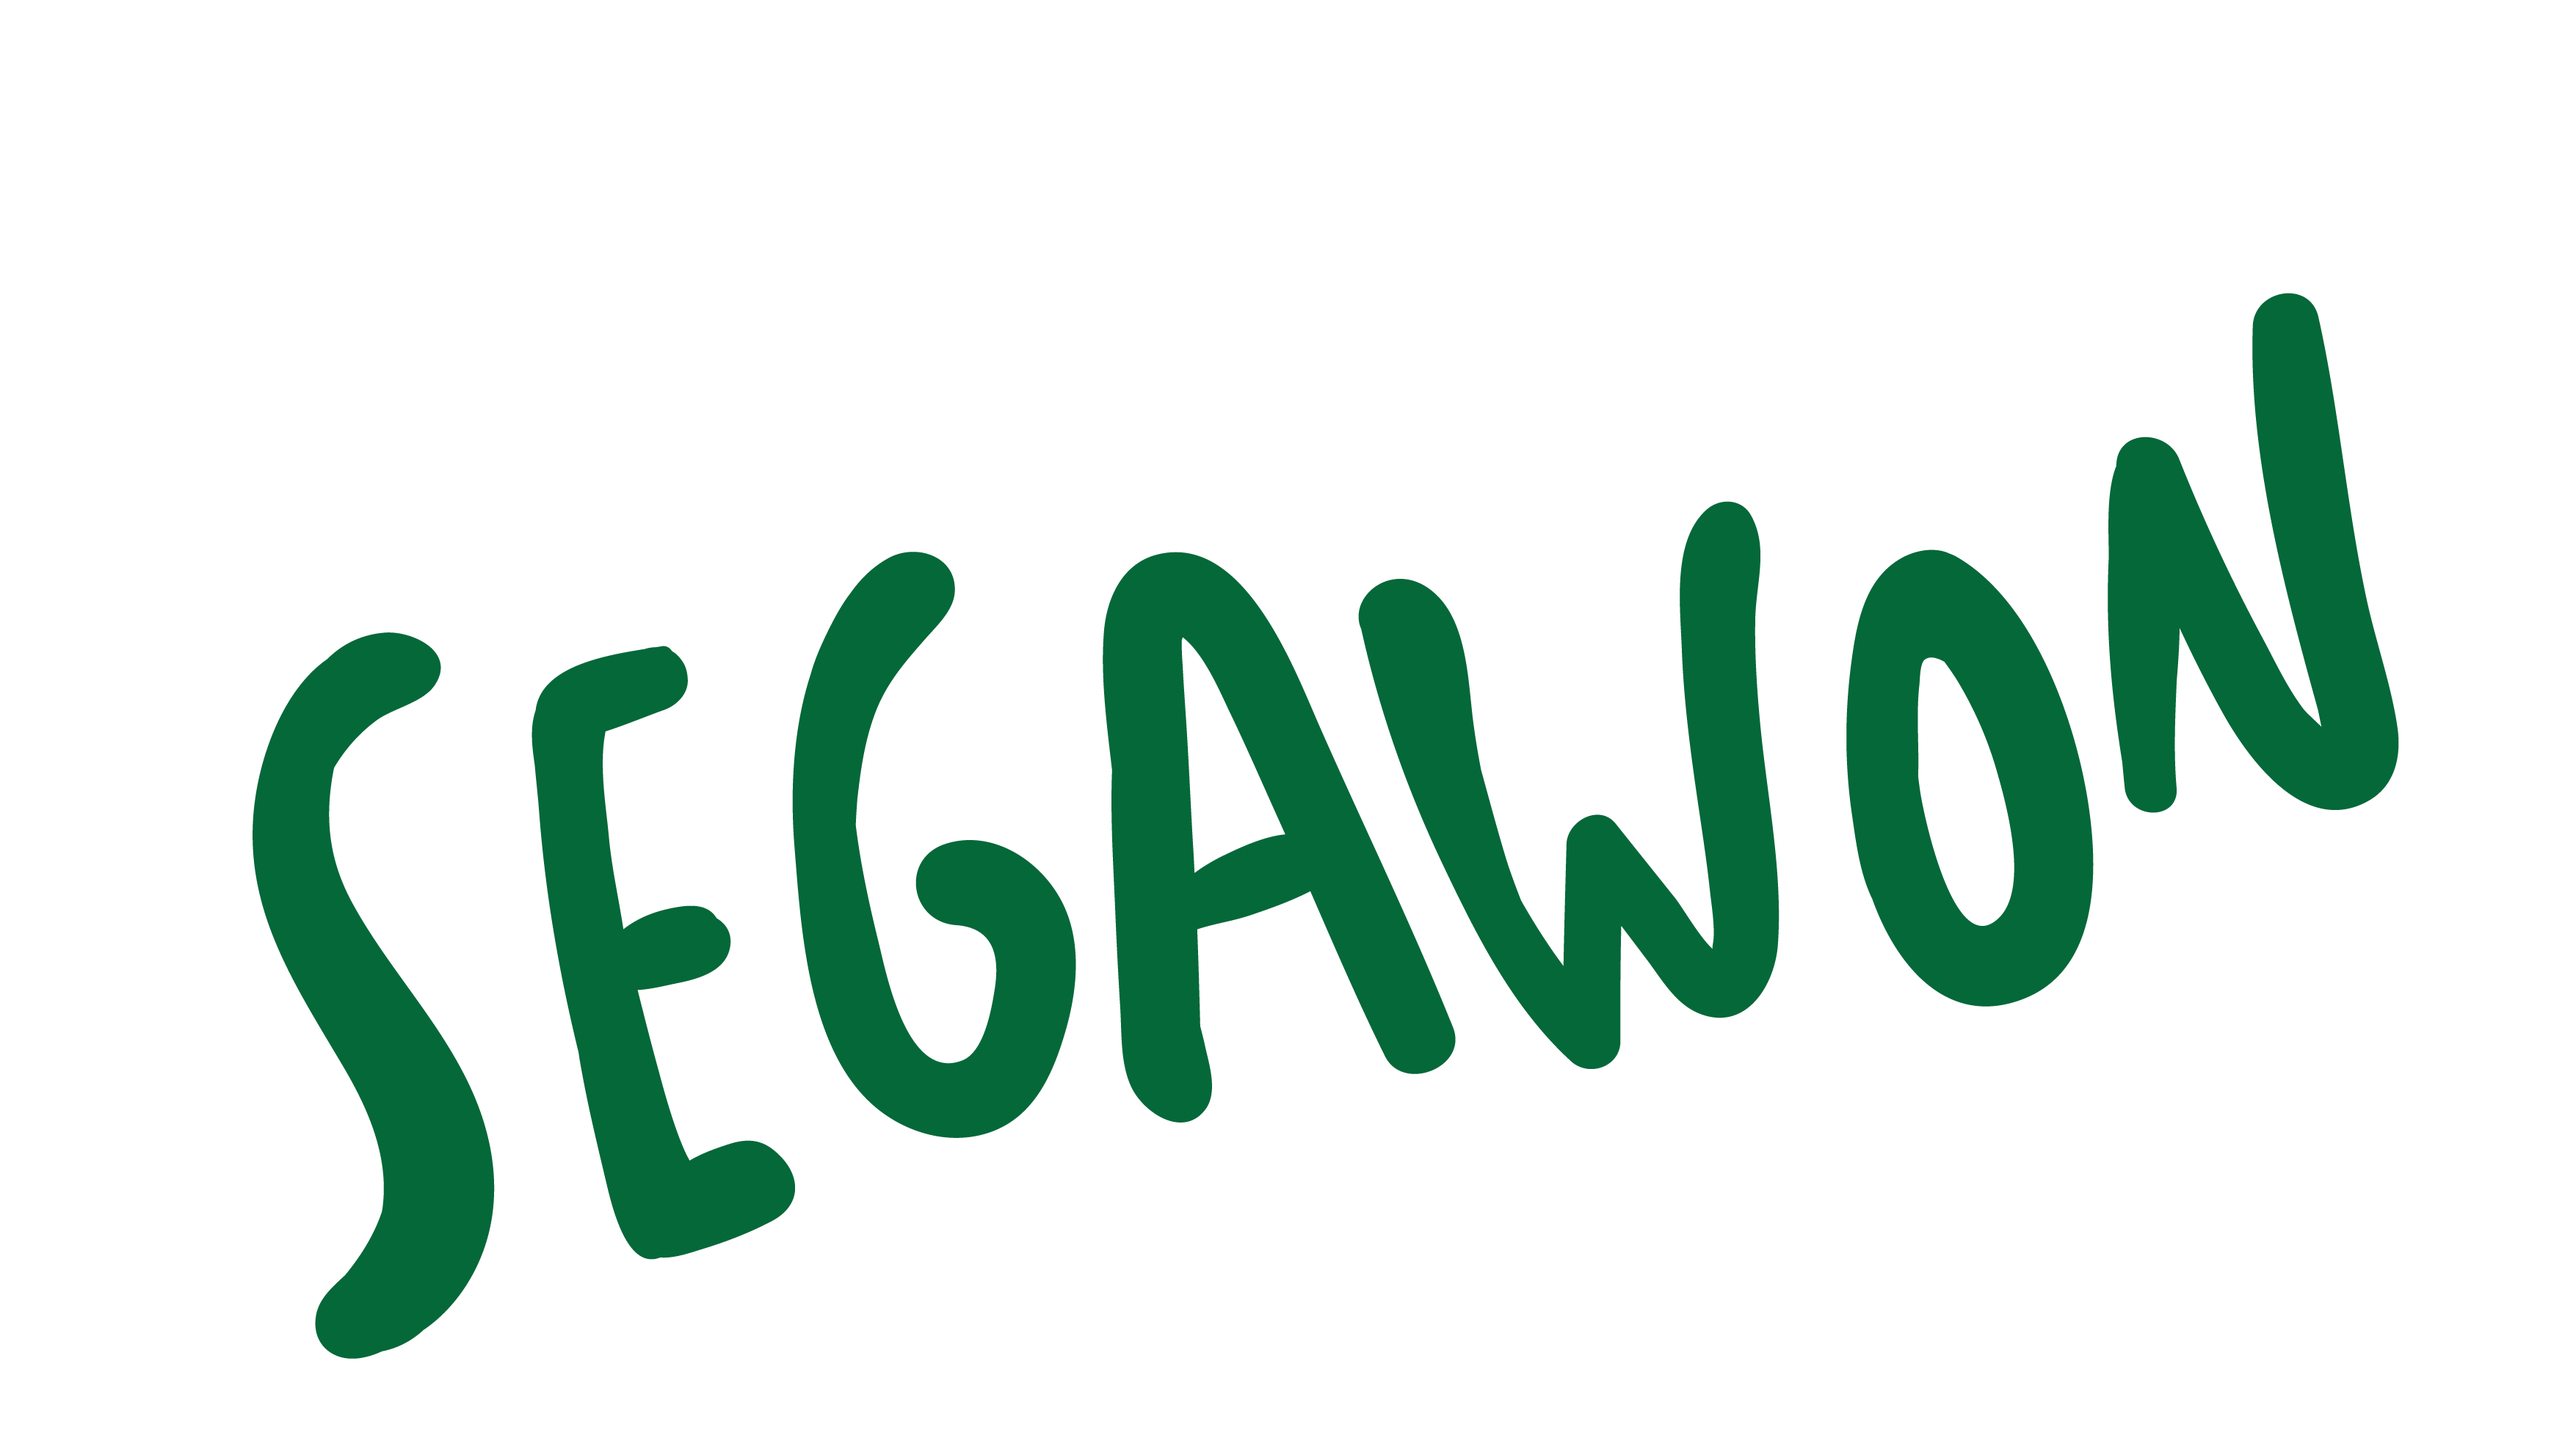
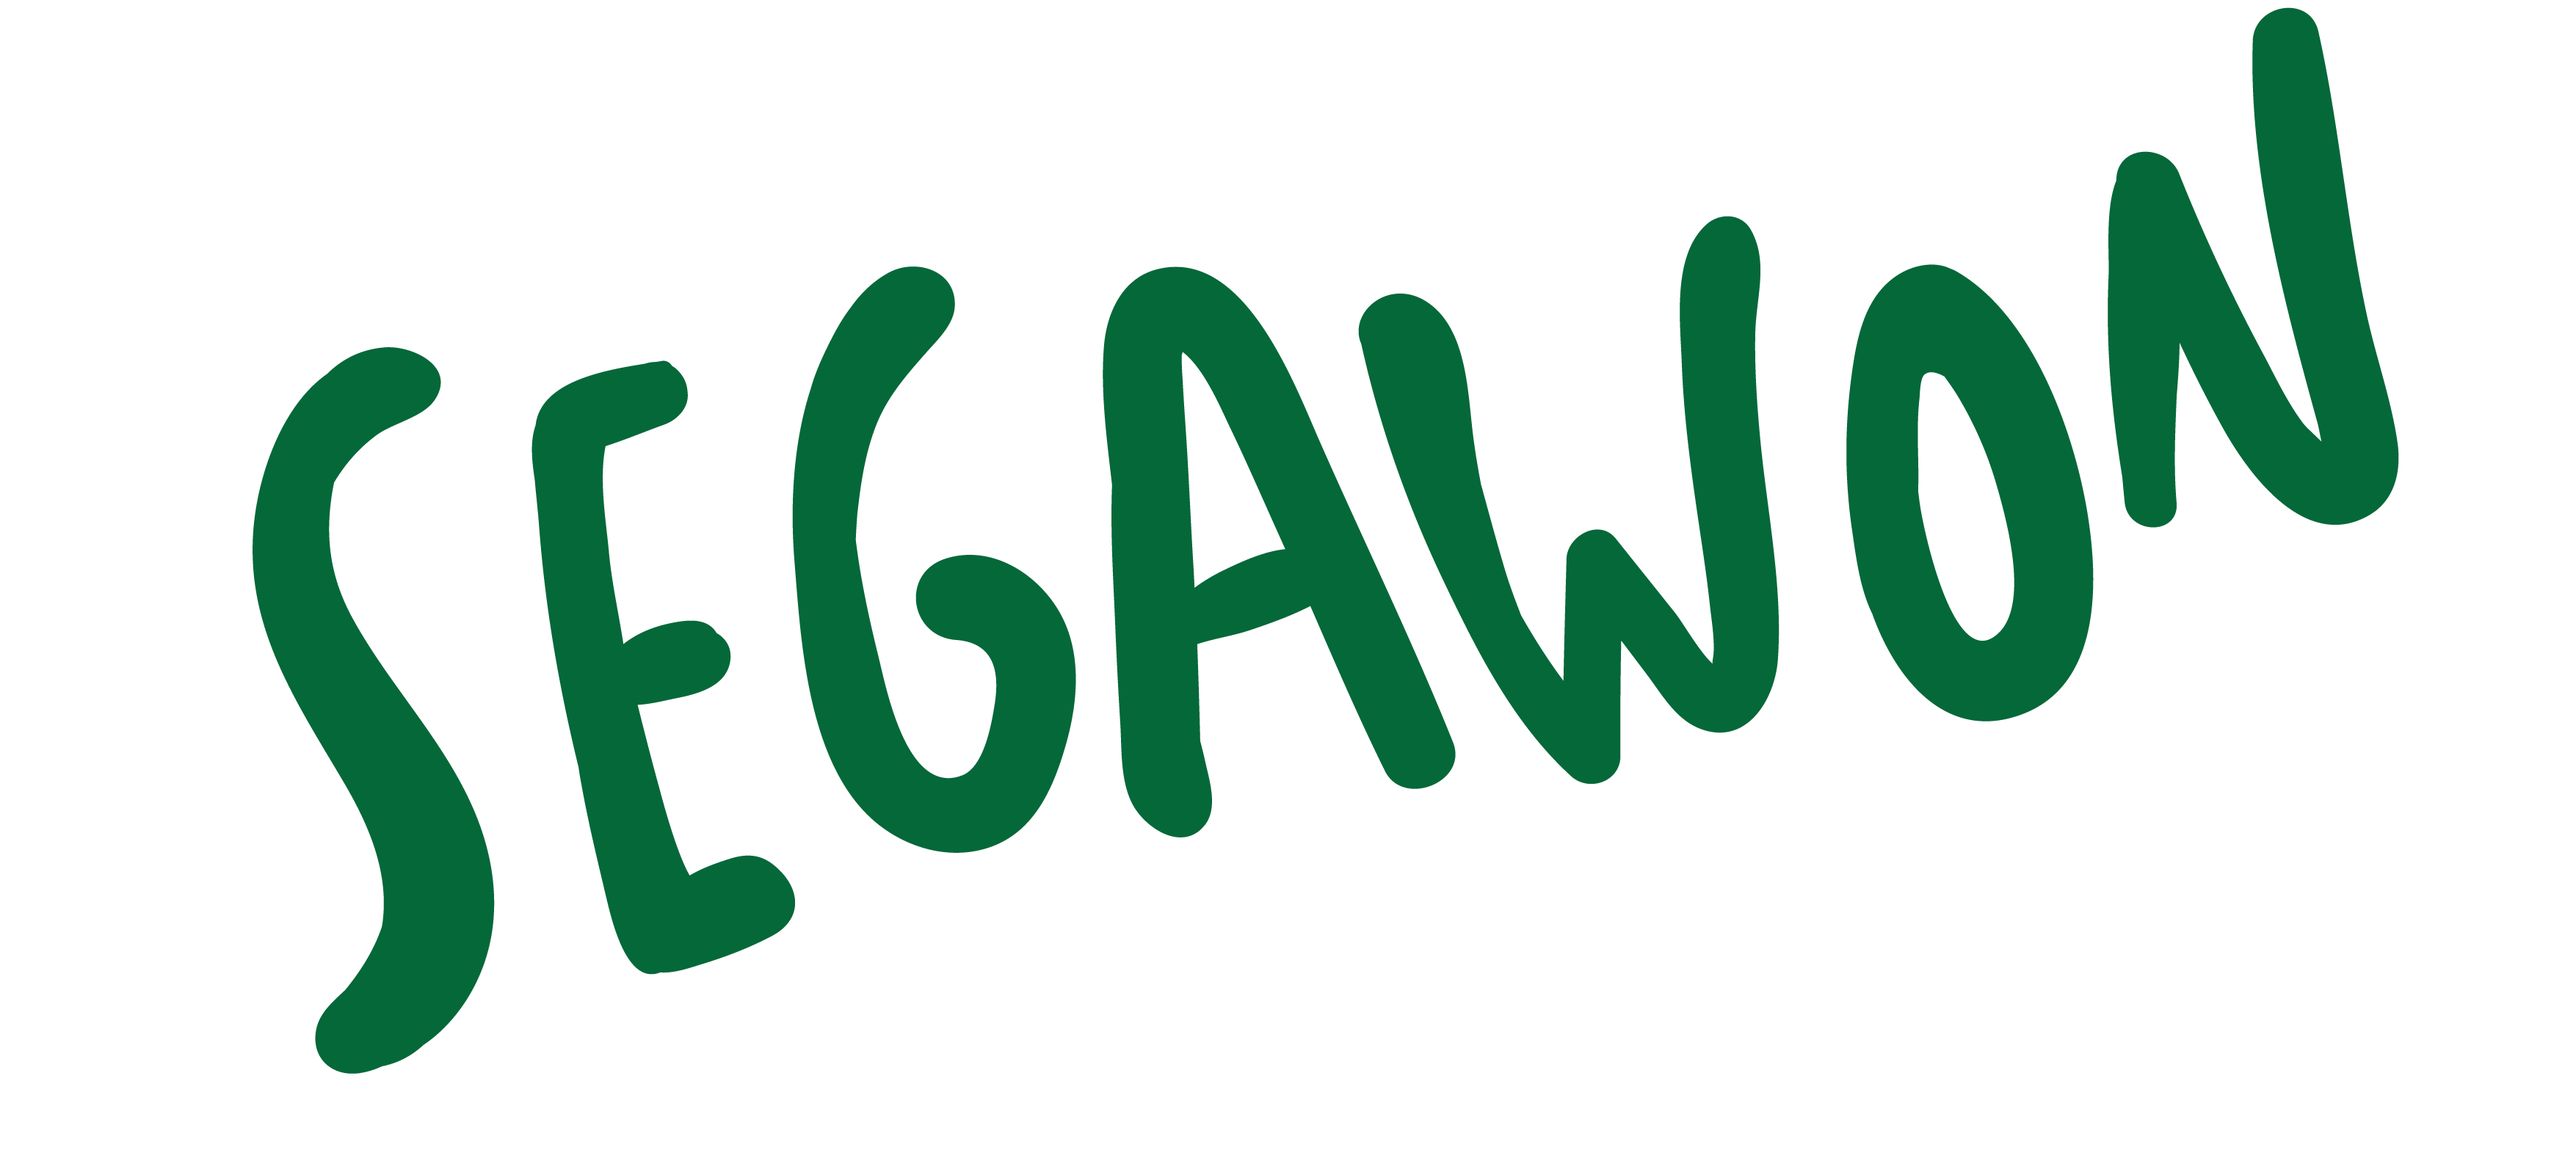
fix home

Changed region(s): [[0.0932, 0.0, 0.9319, 0.8733], [0.1243, 0.8109, 0.1864, 0.9669], [0.6523, 0.1871, 0.6834, 0.3743]]

diff --git a/css/styles.home.css b/css/styles.home.css
@@ -1,99 +1,169 @@
-            /* Lebar web */
-.lebarweb{
-    width: 100%;
-    height: 100%;
+.lebarweb {
+  background: #a59910;
+  display: flex;
+  flex-direction: row;
+  justify-content: center;
 }
-            /* Background body */
-.background{
-    background-color: #fdbe40;
+.navbar {
+  border: 4px solid #000;
+  background: #006838;
+  flex-shrink: 0;
+  border: 4px solid #000;
+  background: #006838;
+  position: fixed;
+  top: 0;
+  width: 100%;
+  left: 0;
 }
-
-
-            /* Kolom Navigasi */ 
-.topnav{
-    width: 1512px;
-    height: 40px;
-    flex-shrink: 0;
-    border-bottom: 2px solid #000;
-    background: #648813;
-    position: fixed;
-    top: 0;
-    width: 100%;
-    left: 0;
+.navbar ul {
+  list-style: none;
+  margin: 0;
+  padding: 0;
+  float: right;
 }
-
-            /* Kolom Menu */
-.home{             
-    color: #FFF;
-    font-family: Super Snack;
-    font-size: 20px;
-    font-style: normal;
-    font-weight: 400;
-    line-height: normal;
-    text-decoration: none;
+.navbar li {
+  display: inline;
+  text-align: center;
+  padding: 20px 30px;
+  display: inline-block;
 }
-.offers{
-    color: #FFF;
-    font-family: Super Snack;
-    font-size: 20px;
-    font-style: normal;
-    font-weight: 400;
-    line-height: normal;
-    text-decoration: none;
+.navbar li:hover {
+  color: white;
+  cursor: pointer;
 }
-
-.place{
-    color: #FFF;
-    font-family: Super Snack;
-    font-size: 20px;
-    font-style: normal;
-    font-weight: 400;
-    line-height: normal;
-    text-decoration: none;
+.home {
+  color: #fff;
+  font-family: Super Snack;
+  font-size: 30px;
+  font-style: normal;
+  font-weight: 400;
+  line-height: normal;
+  text-decoration: none;
 }
-
-.about{
-    color: #FFF;
-    font-family: Super Snack;
-    font-size: 20px;
-    font-style: normal;
-    font-weight: 400;
-    line-height: normal;
-    text-decoration: none;
+.offers {
+  color: #fff;
+  font-family: Super Snack;
+  font-size: 30px;
+  font-style: normal;
+  font-weight: 400;
+  line-height: normal;
+  text-decoration: none;
+  text-align: center;
+}
+.lunch {
+  width: 151px;
+  height: 73px;
+  flex-shrink: 0;
+  margin: auto;
 }
 
-            /* Gambar Nav Logo */
-.lucu{
-    height: 35px;
-    flex-shrink: 0;
-    text-align: bottom;
+.place {
+  color: #fff;
+  font-family: Super Snack;
+  font-size: 30px;
+  font-style: normal;
+  font-weight: 400;
+  line-height: normal;
+  text-decoration: none;
+}
+
+.about {
+  color: #fff;
+  font-family: Super Snack;
+  font-size: 30px;
+  font-style: normal;
+  font-weight: 400;
+  line-height: normal;
+  text-decoration: none;
+}
+.segawon {
+    display: block;
     margin: auto;
-    position: relative;
-    object-fit: cover;
-    justify-content: center
-}
-
-            /* Gambar Background Home */
-.segawon{
-    width: 45%;
-    position: fixed;
-    top: 0;
-    left: 6%;
+    height: auto;
+    margin-top: 200px;
+    width: 500px;
 }
 
 .rawon{
-    align-content: center;
-    width: 30%;
-    position: fixed;
-    top: 250px;
-    left: 15%;
+    display: block;
+    margin: auto;
+    height: auto;
+    margin-top: 200px;
+    width: 500px;
 }
-
-.rawonsegawon {
-    padding-top: 0%;
-    flex-basis: auto;
+.text1 {
+  position: relative;
+  width: 340px;
+  margin-top: 415px;
+  margin-left: 250px;
+  text-align: left;
+  font-family: Super Snack;
+  font-weight: 400;
+  color: #006838;
+  font-size: 40px;
+  letter-spacing: 0;
+  line-height: normal;
 }
-
-
-
-
+.text2 {
+  position: relative;
+  width: 340px;
+  margin-top: 415px;
+  margin-right: 0px;
+  text-align: right;
+  font-family: Super Snack;
+  font-weight: 400;
+  color: #006838;
+  font-size: 40px;
+  letter-spacing: 0;
+  line-height: normal;
+}
+.overlap {
+  position: absolute;
+  display: block;
+  width: 280px;
+  height: 54px;
+  top: 687px;
+  left: 600px;
+  background-color: #006838;
+  border-radius: 25px;
+  border: 3px solid;
+  border-color: #000000;
+}
+.menu {
+  position: relative;
+  display: block;
+  text-align: center;
+  left: 55px;
+  font-family: Super Snack;
+  font-weight: 400;
+  color: #ffea00;
+  font-size: 40px;
+  letter-spacing: 0;
+  line-height: normal;
+  white-space: nowrap;
+}
+.textorder {
+  position: relative;
+  top: 63px;
+  left: 2px;
+  font-family: Super Snack;
+  font-weight: 400;
+  color: #006838;
+  font-size: 25px;
+  letter-spacing: 0;
+  line-height: normal;
+  white-space: nowrap;
+}
+/* footer {
+  position: absolute;
+  background-color: #333;
+  color: #fff;
+  padding: 20px;
+  position:absolute;
+  bottom:0;
+  width: 100%;
+}
+.footer-content, .footer-links, .social-media, .footer-bottom {
+  float:bottom;
+  margin-bottom: 15px;
+} */

diff --git a/index.html b/index.html
@@ -1,29 +1,48 @@
 <!DOCTYPE html>
 <html>
-    <head>
-        <link rel="icon" href="img/logo lucu2lunch.png" type="image/gif" sizes="16x16">
-        <title>Segawon</title>
-        <link rel="stylesheet" href="css/styles.home.css">
-        <link rel="stylesheet" href="https://fonts.googleapis.com/css2?family=Super Snack:wght@400&display=swap" />
-    </head>
-    <body class="background">
-        <nav class="topnav">
-            <div>
-                <img class="lucu" src="img/logo lucu2lunch.png" alt="fotolunch">
-                <a class="home" href="index.html">Home</a>
-                <a class="offers" href="offers.html">Offers</a>
-                <a class="place" href="place.html">Place</a>
-                <a class="about" href="about.html">About Us</a>
-            </div>
-        </nav>
-        <div class="rawonsegawon">
-            <img class="segawon" src="img/q.png">
-            <img class="rawon" src="img/r.png">
-            <h2>Kuliner</h2>
-        </div>
-    </body>
+  <head>
+    <title>SEGAWON</title>
+    <link rel="icon" href="img/logo lucu2lunch.png" type="image/gif" sizes="16x16">
+    <link rel="stylesheet" href="css/styles.home.css" />
+    <a href="offers.html"></a>
+  </head>
+  <body class="lebarweb">
+    <!-- navbar start -->
+    <nav class="navbar">
+      <img class="lunch" src="img/logo lucu2lunch.png" alt="fotolunch" />
+      <ul>
+        <li><a class="home" href="index.html">Home</a></li>
+        <li><a class="offers" href="offers.html">Offers</a></li>
+        <li><a class="place" href="place.html">Place</a></li>
+        <li><a class="about" href="about.html">About Us</a></li>
+      </ul>
+    </nav>
+    <!-- navbar end -->
+
+    <p class="text1">special culinary delights from Jogja</p>
+    <div>
+      <img class="segawon" src="img/q.png" />
+      <img class="rawon" src="img/r.png" alt="logosegawon" />
+    </div>
+    <p class="text2">special culinary delights from Jogja</p>
+    <div class="overlap"><div class="menu" align="center">Menu</div>
+    <div class="textorder">You can order us</div>
+    <!-- <footer>
+      <div class="footer-content">
+        <p>Kontak Kami:</p>
+        <p>Email: info@example.com</p>
+        <p>Alamat: Jalan Contoh No. 123</p>
+      </div>
+      <div class="footer-links">
+        <ul>
+          <li><a href="tentang-kami.html">Tentang Kami</a></li>
+          <li><a href="kontak.html">Kontak</a></li>
+          <li><a href="kebijakan-privasi.html">Kebijakan Privasi</a></li>
+        </ul>
+      </div>
+      <div class="footer-bottom">
+        <p>Hak Cipta &copy; 2023 Contoh Situs Web. Hak Cipta Dilindungi.</p>
+      </div>
+    </footer> -->
+  </body>
 </html>
-
-
-
-

diff --git a/css/styles.offers.css b/css/styles.offers.css
@@ -5,7 +5,7 @@
 
             /* Background body */
 .background{
-    background-color: #fdbe40;
+    background-color: #cfc127;
 }
             
 .topnav{

diff --git a/README.md b/README.md
@@ -1,2 +1,2 @@
-# WKulinerz
-Web ini dibuat sewaktu kuliah 
+#  Web Culiners
+## Web Ini Dibuat Dengan Sepenuh Hati🥰🥰
